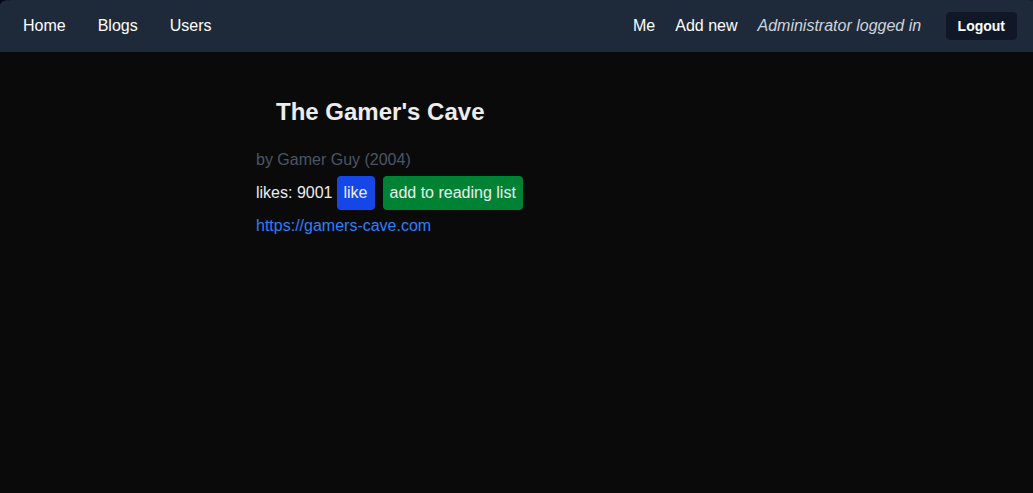
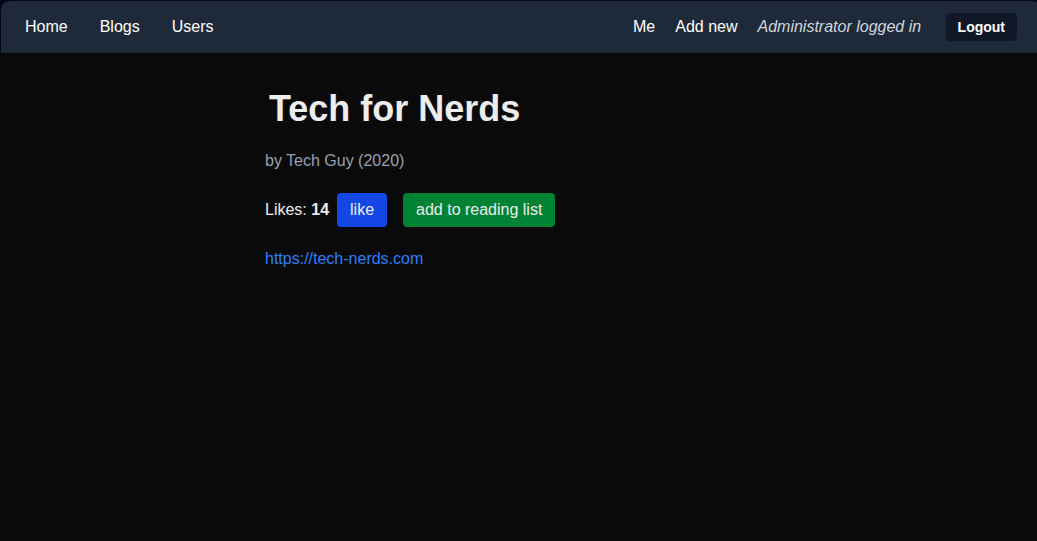
update(ui): improvements to font-sizes and spacing between elements - add conditional check to guarantee only logged in users can like a blog - update(docs): add screenshots containing these new UI changes

diff --git a/blogs-list/app/blogs/[id]/page.tsx b/blogs-list/app/blogs/[id]/page.tsx
@@ -41,23 +41,25 @@ export default async function BlogPage({
       <div className="flex flex-col justify-center">
         <input type="hidden" name="blog-id" value={blog.id} />
 
-        <h2 className="text-2xl font-bold p-5">{blog.title}</h2>
+        <h2 className="text-4xl font-bold p-3">{blog.title}</h2>
 
-        <p className="text-gray-600">
+        <p className="text-gray-400 p-2">
           by {blog.author} ({blog.year})
         </p>
 
-        <div className="flex">
+        <div className="flex p-2 my-1">
           <form action={updateLikeCounter}>
             <input type="hidden" name="id" value={blog.id} />
             <p>
-              likes: {blog.likes}
-              <button
-                type="submit"
-                className="border-1 border-blue-700 bg-blue-700 hover:bg-blue-500 px-1.5 py-1 m-1 rounded"
-              >
-                like
-              </button>
+              Likes: <strong>{blog.likes}</strong>
+              {user && (
+                <button
+                  type="submit"
+                  className="border-1 border-blue-700 bg-blue-700 hover:bg-blue-500 px-3 py-1 mx-2 rounded"
+                >
+                  like
+                </button>
+              )}
             </p>
           </form>
 
@@ -70,7 +72,7 @@ export default async function BlogPage({
 
                   <button
                     type="submit"
-                    className="border-1 border-green-700 bg-green-700 hover:bg-green-500 px-1.5 py-1 m-1 rounded"
+                    className="border-1 border-green-700 bg-green-700 hover:bg-green-500 px-3 py-1 mx-2 rounded"
                   >
                     add to reading list
                   </button>
@@ -80,7 +82,7 @@ export default async function BlogPage({
           )}
         </div>
 
-        <Link href={blog.url} className="text-blue-500 hover:underline">
+        <Link href={blog.url} className="text-blue-500 hover:underline p-2">
           {blog.url}
         </Link>
       </div>
